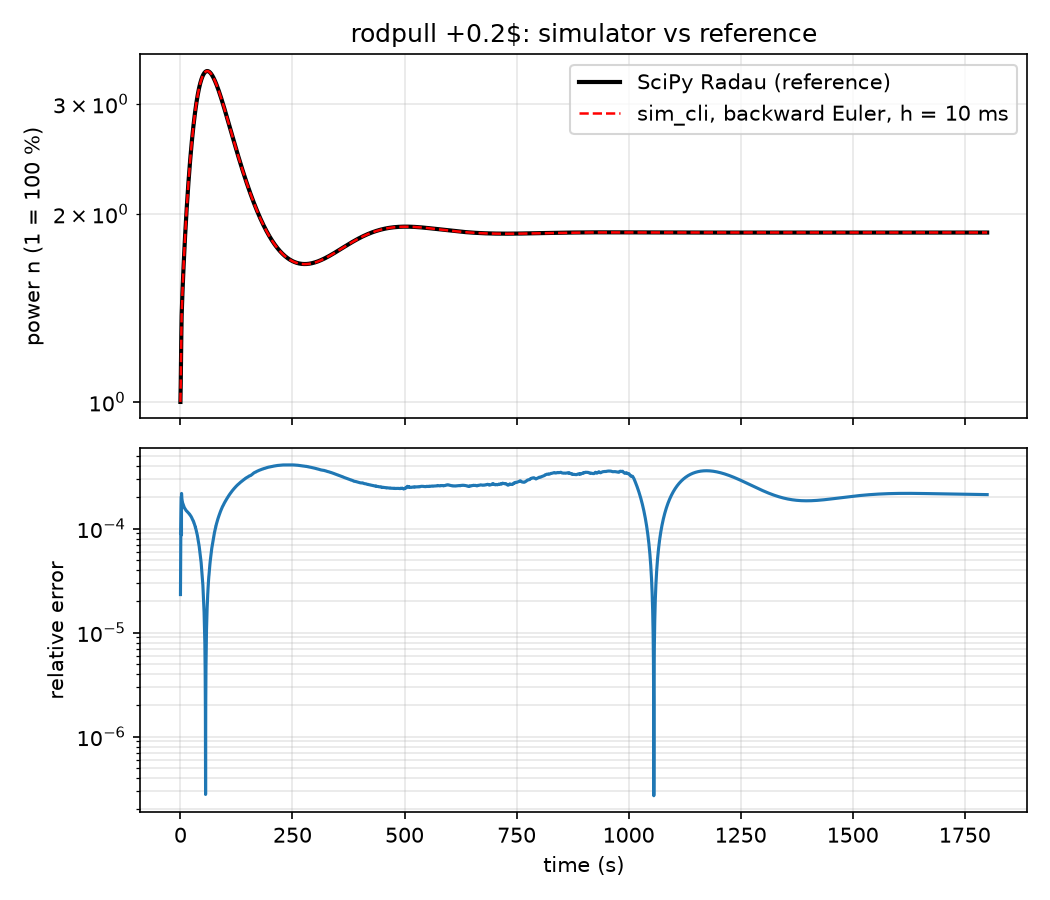
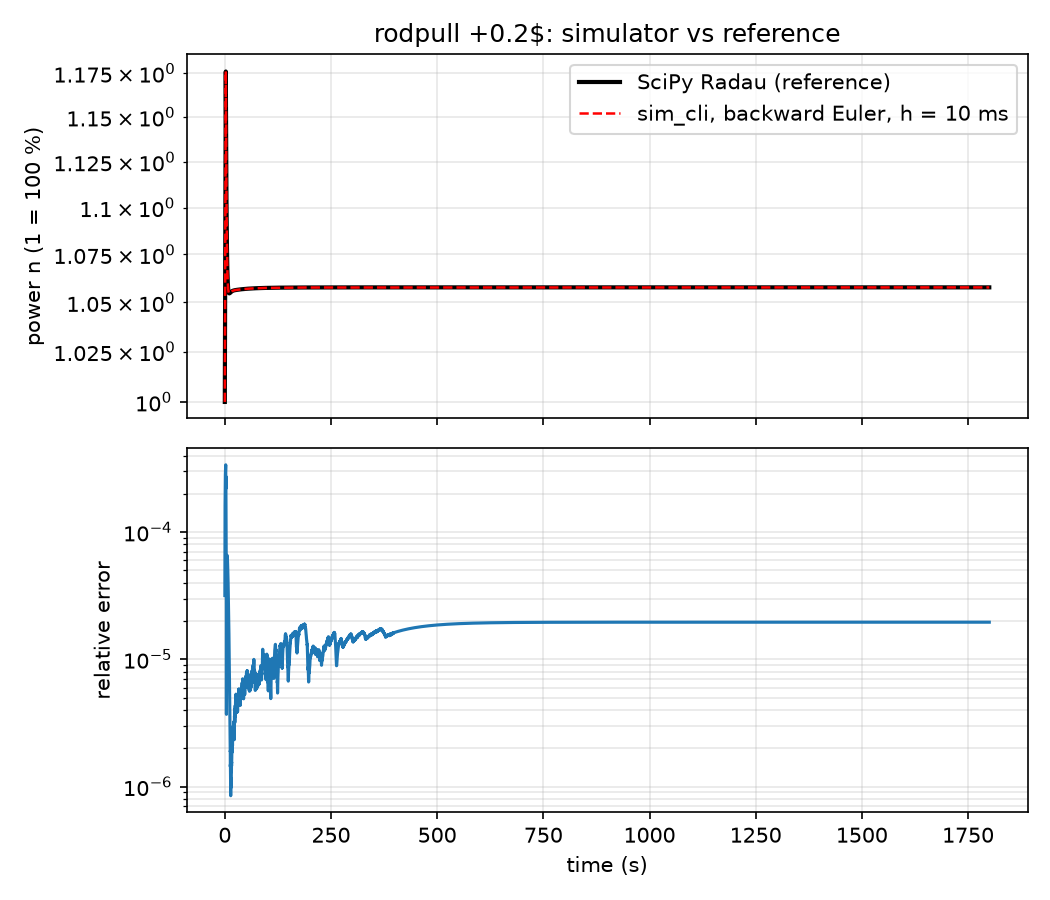
feat(02-01): retune feedback and rod worth for demos (TUNE-01..03)
- MC 5->0.25, alphaT -5e-5->-7.5e-4, rhoW 2.2->9 dollars, rodSpeed 0.02->0.0049
- re-derive T9 worth pins, T12, TEST-01 rod pull; add TUNE-03 cold shutdown margin
- mutate.py M25 retargeted to new MC

diff --git a/tests/test_plant.cpp b/tests/test_plant.cpp
@@ -59,9 +59,9 @@ TEST_CASE("T9 rod worth: 0, rho_w/2, rho_w at the ends and midpoint; critical at
   CHECK(PP.rhoW * sCurve(0.5f) == doctest::Approx(PP.rhoW / 2));
   CHECK(PP.rhoW * sCurve(1.0f) == doctest::Approx(PP.rhoW));
   CHECK(fabs(rodWorth(0.5f, PP)) < 1e-9);
-  CHECK(rodWorth(0.0f, PP) / 0.0065 == doctest::Approx(-1.1));
+  CHECK(rodWorth(0.0f, PP) / 0.0065 == doctest::Approx(-4.5));
   CHECK(safetyWorth(1.0f, PP) == doctest::Approx(0.0));
-  CHECK((rodWorth(0.0f, PP) + safetyWorth(0.0f, PP)) / 0.0065 == doctest::Approx(-5.1));
+  CHECK((rodWorth(0.0f, PP) + safetyWorth(0.0f, PP)) / 0.0065 == doctest::Approx(-8.5));
 }
 
 TEST_CASE("T10 rod rate limit") {
@@ -105,16 +105,16 @@ TEST_CASE("T11 thermal steady state T = Tc + P / K") {
 TEST_CASE("T12 +$0.2 rod pull settles where feedback cancels it") {
   const float rodRho = 0.2f * 0.0065f;
   const PlantRun r = runPlant(rodFor(rodRho), PP.Tcool, 1800.0);
-  const double dT = rodRho / -PP.alphaT;  // 26 K
+  const double dT = rodRho / -PP.alphaT;  // 1.73 K
   CHECK(r.T - PP.Tref == doctest::Approx(dT).epsilon(0.02));
-  CHECK(r.n == doctest::Approx(1.0 + dT * PP.K).epsilon(0.02));  // 1.87
+  CHECK(r.n == doctest::Approx(1.0 + dT * PP.K).epsilon(0.02));  // 1.058
   CHECK(fabs(r.rho) < 1.0e-5);
-  // With a 150 s thermal lag the first overshoot is large (about 80 %, matches
+  // With a 7.5 s thermal lag the first overshoot is about 11 % at 2.3 s (matches
   // tools/reference.py); the requirement is that the ringing dies out.
   const double overshoot = r.maxN / r.n - 1.0;
   INFO("T12 overshoot " << overshoot * 100.0 << " %, peak at " << r.tPeak << " s");
-  CHECK(overshoot == doctest::Approx(0.81).epsilon(0.10));
-  CHECK(r.tPeak == doctest::Approx(60.0).epsilon(0.25));
+  CHECK(overshoot == doctest::Approx(0.111).epsilon(0.10));
+  CHECK(r.tPeak == doctest::Approx(2.3).epsilon(0.25));
   CHECK(fabs(r.nAt540 / r.n - 1.0) < 0.02);
   CHECK(r.lateSpread / r.n < 0.01);
 }

diff --git a/tests/test_reactor.cpp b/tests/test_reactor.cpp
@@ -36,8 +36,9 @@ TEST_CASE("TEST-01 facade +$0.2 rod pull settles with feedback") {
   in.rodDemand = rodFor(0.2f * 0.0065f);
   const Readings out = runFor(r, in, 1800.0);
   CHECK(out.trips == 0);
-  CHECK(out.T - 320.0 == doctest::Approx(26.0).epsilon(0.03));
-  CHECK(out.n == doctest::Approx(1.867).epsilon(0.02));
+  const double dT = 0.2 * 0.0065 / -defaultPlant().alphaT;
+  CHECK(out.T - 320.0 == doctest::Approx(dT).epsilon(0.03));
+  CHECK(out.n == doctest::Approx(1.0 + dT * defaultPlant().K).epsilon(0.02));
   CHECK(fabs(out.rho) < 1.0e-5);
 }
 
@@ -220,6 +221,37 @@ TEST_CASE("T13 trip latches; reset only with rods and rod demand in") {
   CHECK(after.trips == 0);
   CHECK(after.rho < 0.0f);
   CHECK(after.n < 0.1f);
+}
+
+TEST_CASE("TUNE-03 cold core, rod in, safety bank out: stays below -$1 for 300 s") {
+  Reactor r;
+  REQUIRE(r.init());
+  Inputs in;
+  in.scram = true;
+  r.step(in, 0.01f);
+  in.scram = false;
+  in.rodDemand = 0.0f;
+  runFor(r, in, 2.0);
+  in.reset = true;
+  REQUIRE(r.step(in, 0.01f).trips == 0);
+  in.reset = false;
+  // Bank withdraws in 1 / rodSpeed s; fuel cools to Tcool long before that.
+  const Readings start = runFor(r, in, 1.0 / defaultPlant().rodSpeed + 10.0);
+  REQUIRE(start.T < 290.5f);  // source-level power holds fuel ~0.1 K above Tcool
+  REQUIRE(start.rod < 1e-6f);
+  CHECK(start.rhoDollars < -1.0f);
+  double maxN = 0.0, maxRho = -1e9;
+  uint8_t trips = 0;
+  for (int i = 0; i < 30000; ++i) {
+    const Readings& out = r.step(in, 0.01f);
+    maxN = fmax(maxN, out.n);
+    maxRho = fmax(maxRho, out.rhoDollars);
+    trips |= out.trips;
+  }
+  INFO("start rho $" << start.rhoDollars << " n " << start.n << " maxN " << maxN);
+  CHECK(maxRho < -1.0);
+  CHECK(maxN <= start.n * (1.0 + 1e-6));
+  CHECK(trips == 0);
 }
 
 TEST_CASE("SAFE-02 scram and reset in the same step stays tripped") {

diff --git a/tools/mutate.py b/tools/mutate.py
@@ -50,7 +50,7 @@ MUTATIONS = [  # id, file, old, new
     ("M22", I, "    if (m.count < PERIOD_SAMPLES) return;\n", ""),
     ("M23", I, "EMA = 0.2f;", "EMA = 1.0f;"),
     ("M24", PL, "const float maxStep = speed * h;", "const float maxStep = 0.5f * speed * h;"),
-    ("M25", P, "p.MC = 5.0f;", "p.MC = 1.5f;"),
+    ("M25", P, "p.MC = 0.25f;", "p.MC = 0.075f;"),
     ("M26", K, "rho >= beta ? 10 : 1;", "1;"),
     ("M27", PR, "if (rhoDollars >= 1.0f)", "if (rhoDollars > 1.05f)"),
     ("M28", P, "Setpoints s = {1.20f,", "Setpoints s = {1.50f,"),

diff --git a/lib/reactor/src/params.h b/lib/reactor/src/params.h
@@ -39,16 +39,16 @@ struct PlantParams {
 
 inline PlantParams defaultPlant() {
   PlantParams p;
-  p.rhoW = 2.2f * DOLLAR;
+  p.rhoW = 9.0f * DOLLAR;
   p.rhoCrit = 0.5f * p.rhoW;
   p.rhoS = 4.0f * DOLLAR;
-  p.rodSpeed = 0.02f;
+  p.rodSpeed = 0.0049f;
   p.scramSpeed = 1.0f;
-  p.MC = 5.0f;
+  p.MC = 0.25f;
   p.K = 1.0f / 30.0f;
   p.Tcool = 290.0f;
   p.Tref = 320.0f;  // Tcool + 1 / K: full power at the critical rod position
-  p.alphaT = -5.0e-5f;
+  p.alphaT = -7.5e-4f;
   p.S = 3.0e-4f;
   return p;
 }

diff --git a/tools/reference.py b/tools/reference.py
@@ -21,14 +21,14 @@ GEN_TIME = 1.0e-4
 BETA = BETA_I.sum()
 
 DOLLAR = 0.0065
-RHO_W = 2.2 * DOLLAR
+RHO_W = 9.0 * DOLLAR
 RHO_CRIT = 0.5 * RHO_W
-ROD_SPEED = 0.02
-MC = 5.0
+ROD_SPEED = 0.0049
+MC = 0.25
 K = 1.0 / 30.0
 T_COOL = 290.0
 T_REF = 320.0
-ALPHA_T = -5.0e-5
+ALPHA_T = -7.5e-4
 SOURCE = 3.0e-4
 PERIOD_INF = 1.0e9
 
